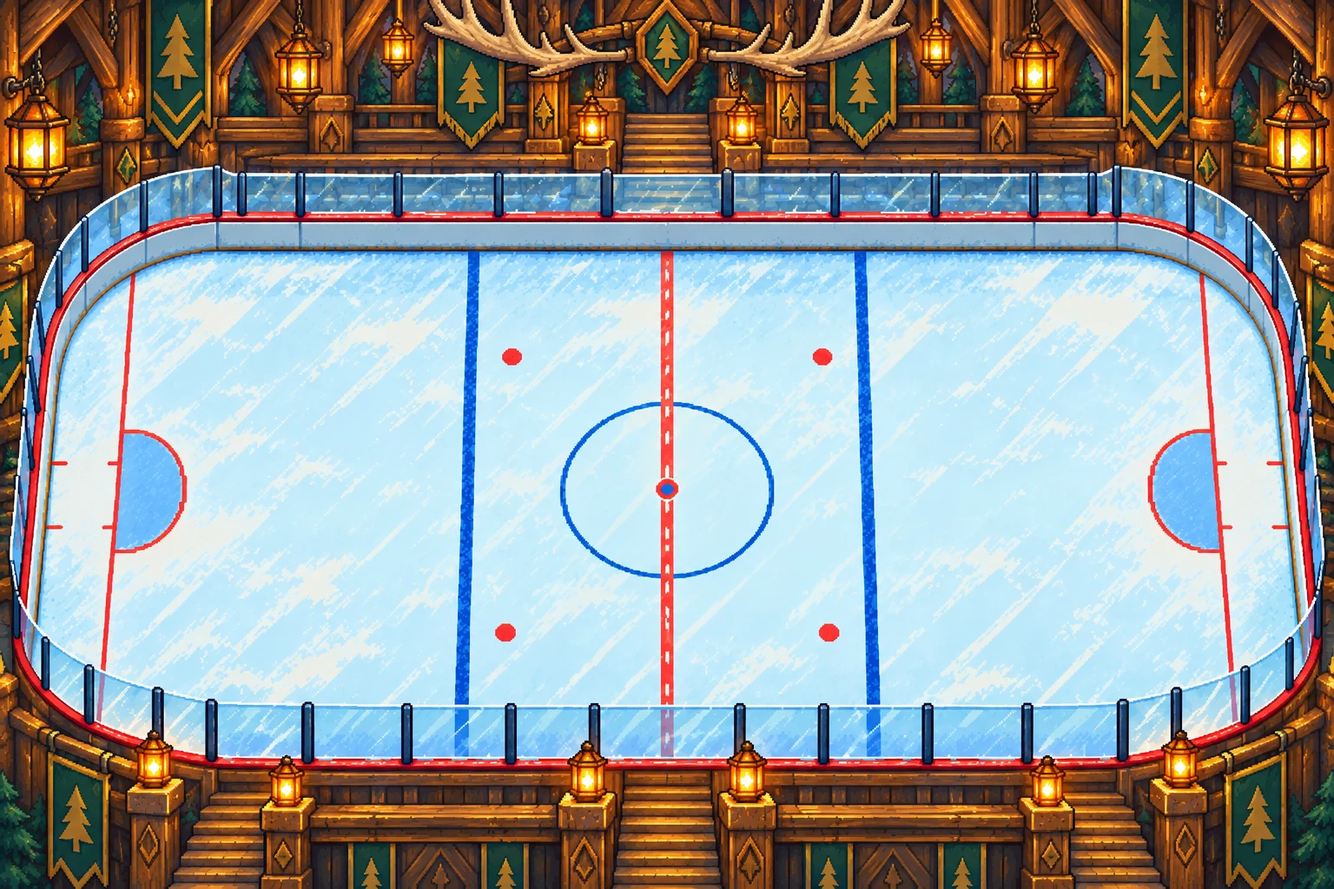
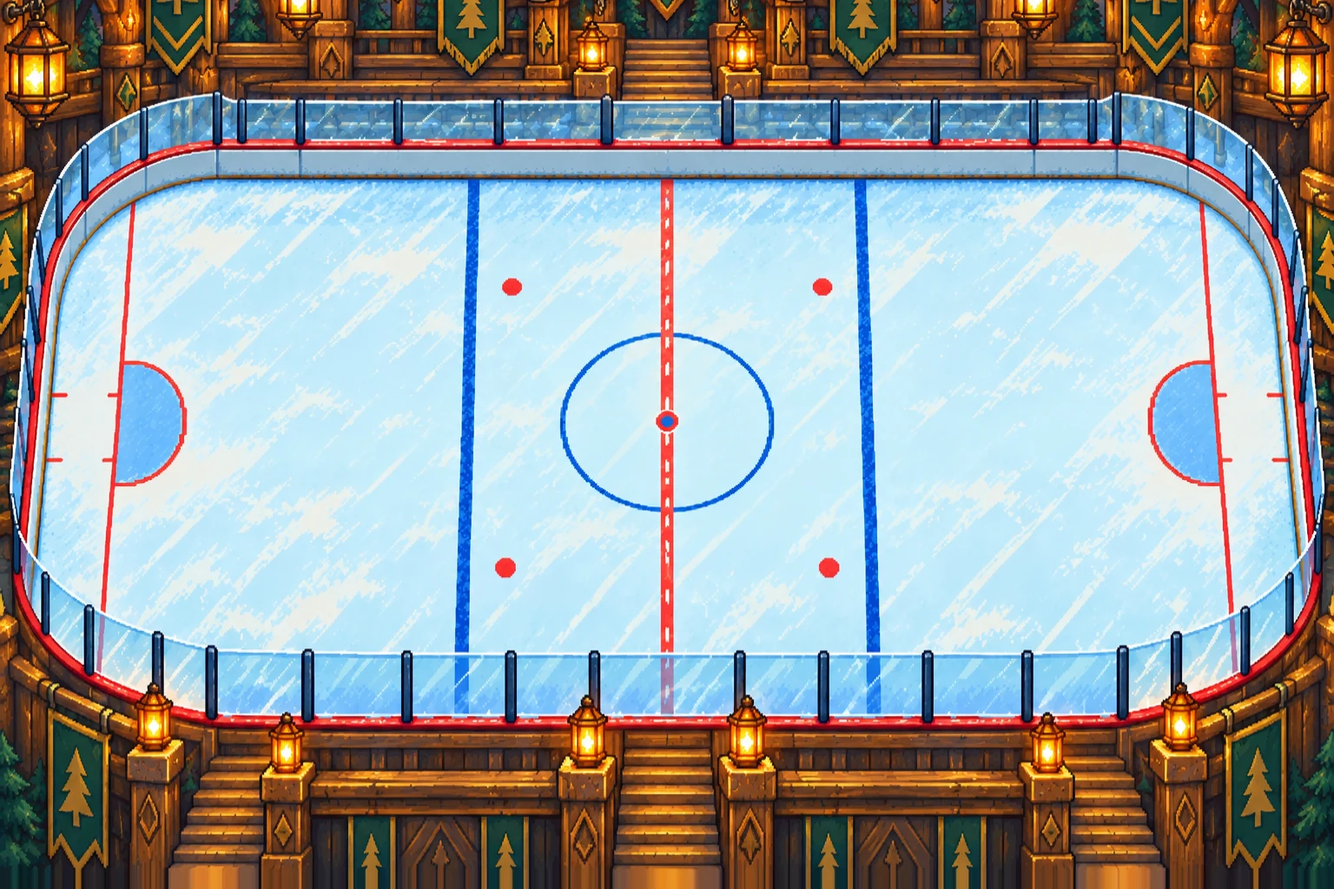
Rinks that match the boards, players from parts at full size, the AI and the Monolith
- The Longhouse and the Observatory: their backdrops were painted with the rink lower and
  shorter than the game's rink, so you could skate up into the glass and the nets sat off
  their creases. The build now finds each backdrop's rink (the kick plates and the faceoff
  dots) and stretches it onto the game's, to within half a pixel.
- Players made from parts are drawn with heads 35% bigger and bodies 5% sturdier, to sit
  with the cast's proportions; one in the locker-room crew now has a head.
- Monolith: the AI goes round a stone wall instead of skating into it (stuck 6 of 6 times
  before, round it 6 of 6 now), won't shoot into one, and a carrier raises it between
  themselves and the defender rather than across their own way.
- Puck protection: a stick reaching in on the forehand side gets the puck pulled across to
  the backhand, quicker and fuller with better hands, and a stick reaching round the
  carrier's body finds it harder (stick-check steals down about 9%).
- The AI knows the new buildings: it leans its attack toward the moonbeam and likes a shot
  from inside it, and dumps the puck into the corner without a loose plank.
- Coach tips for the mask picker, the club crests and the Observatory and Longhouse rules.
- Lighter frames: the vignette is a still layer over the canvas instead of a full-screen
  gradient every frame, and the screen is only cleared when the backdrop doesn't cover it.

diff --git a/src/ai.js b/src/ai.js
@@ -252,9 +252,34 @@ export class TeamAI {
     return { t: 2 + Math.hypot(c.x - s.x, c.y - s.y) / sp, x: c.x, y: c.y };
   }
 
+  // A Monolith wall standing across the straight line from (ax, ay) to (bx, by), with `rad`
+  // to spare on either side: the barrier, and which side of it the start is on (null if clear).
+  wallAcross(ax, ay, bx, by, rad) {
+    for (const w of this.m.barriers) {
+      if (!w.alive || w.breaking > 0) continue;
+      const ux = Math.cos(w.ang), uy = Math.sin(w.ang), R = w.thick / 2 + rad;
+      const da = (ax - w.x) * -uy + (ay - w.y) * ux, db = (bx - w.x) * -uy + (by - w.y) * ux; // across the wall
+      if (Math.sign(da) === Math.sign(db) && Math.abs(db) > R) continue; // both on one side, clear of its face
+      const t = da === db ? 0 : clamp(da / (da - db), 0, 1);
+      const along = (ax + (bx - ax) * t - w.x) * ux + (ay + (by - ay) * t - w.y) * uy;
+      if (Math.abs(along) < w.len / 2 + R) return { w, side: Math.sign(da) || 1, ux, uy, R };
+    }
+    return null;
+  }
+
   // ------------------------------------------------------------- actions
   seek(s, tx, ty, sprint, slowR = 60) {
-    const c = clampInside(tx, ty, 22);
+    let c = clampInside(tx, ty, 22);
+    // a stone wall in the way: round its nearer end rather than skating into it
+    const wall = this.wallAcross(s.x, s.y, c.x, c.y, s.r + 4);
+    if (wall) {
+      const { w, side, ux, uy, R } = wall, reach = w.len / 2 + R + 14;
+      const ends = [1, -1].map((e) => ({ x: w.x + ux * reach * e - uy * side * R * 0.6, y: w.y + uy * reach * e + ux * side * R * 0.6 }));
+      const cost = (q) => Math.hypot(q.x - s.x, q.y - s.y) + Math.hypot(c.x - q.x, c.y - q.y);
+      const best = cost(ends[0]) <= cost(ends[1]) ? ends[0] : ends[1];
+      c = clampInside(best.x, best.y, 22);
+      slowR = Math.min(slowR, 20); // (keep the speed up going round)
+    }
     let dx = c.x - s.x, dy = c.y - s.y;
     const d = Math.hypot(dx, dy);
     // separation from teammates
@@ -394,6 +419,7 @@ export class TeamAI {
         let score = (1 - dG / 430) * 1.2 + lane * 0.6 - angle * 0.35 + (Math.abs(g.y - aimY) > 25 ? 0.25 : 0);
         if (m.puck.power && m.puck.power !== 'lightning') score += 0.3;
         if (s.empowered > 0 || s.igniteT > 0) score += 0.3;
+        if (m.twists.beam && m.inBeam(s.x, s.y)) score += 0.12 + 0.18 * this.diff; // (the Observatory: shoot out of the moonlight)
         if (s.def.arch === 'sniper') score += 0.12; // a sniper lets it go sooner
         const thresh = lerp(0.55, 0.75, this.diff) - (near < 60 ? 0.25 : 0) - (this.gamePlan === 'rungun' ? 0.14 : this.gamePlan === 'trap' ? -0.05 : 0);
         if (score > thresh) {
@@ -443,7 +469,11 @@ export class TeamAI {
       }
       // a whirlwind to clear the way to the net
       if (s.def.ult.id === 'cyclone' && s.ult >= 100 && near < 90 && dx < 520 && m.rng() < 0.35) inp.ult = true;
-      if (s.def.ult.id === 'monolith' && s.ult >= 100 && near < 120 && m.rng() < 0.3) inp.ult = true;
+      // a wall between the carrier and the defender closing in (not across the carrier's own way)
+      if (s.def.ult.id === 'monolith' && s.ult >= 100 && nearOpp && near < 120 && m.rng() < 0.3) {
+        s.face = Math.atan2(nearOpp.y - s.y, nearOpp.x - s.x);
+        inp.ult = true;
+      }
       b.driveY = this.pickLane(s, nearOpp);
     }
     this.drive(s, near, nearOpp, b);
@@ -467,6 +497,7 @@ export class TeamAI {
 
   shotLane(s, aimY) {
     const m = this.m;
+    if (this.wallAcross(s.x, s.y, this.attX, aimY, 6)) return 0; // (a Monolith in the way stops the shot dead)
     let worst = 1;
     for (const o of m.opponents(s)) {
       const sd = segDist(o.x, o.y, s.x, s.y, this.attX, aimY);
@@ -483,6 +514,9 @@ export class TeamAI {
     if (nearOpp && Math.abs(nearOpp.y - s.y) < 90 && (nearOpp.x - s.x) * this.side > -20) {
       y = nearOpp.y > s.y ? nearOpp.y - 130 : nearOpp.y + 130;
     }
+    // the Observatory: lean the attack toward the moonbeam when it lies between us and the net
+    const B = this.m.twists.beam;
+    if (B) { const bdx = (this.attX - B.x) * this.side; if (bdx > 60 && bdx < 420 && dx > bdx) y = y * 0.6 + B.y * 0.4; }
     if (dx < 380) y = clamp(y, -110, 110);
     return clamp(y, RINK.minY + 70, RINK.maxY - 70);
   }

diff --git a/src/match.js b/src/match.js
@@ -298,7 +298,7 @@ export class Match {
     for (const s of this.skaters) s.update(dt);
     for (const g of this.goalies) g.update(dt);
     this.collideSkaters();
-    if (live) this.stickChecks(dt);
+    if (live) { this.protectPuck(dt); this.stickChecks(dt); }
     this.updatePuck(dt);
     this.updateTrails(dt);
     this.updateBarriers(dt);
@@ -394,6 +394,26 @@ export class Match {
     this.judgeHit(a, b, kb, hadPuck, puckDist);
   }
 
+  // Puck protection: a carrier with a stick reaching in on the forehand side pulls the puck
+  // across to the backhand, in close, with their body between it and the stick (quicker and
+  // fuller the better their hands). A stick on the backhand side finds it out on the forehand.
+  protectPuck(dt) {
+    const c = this.puck.owner;
+    if (!c || !c.isSkater) return;
+    let near = null, nd = 85;
+    for (const d of this.opponents(c)) {
+      if (d.stun > 0 || d.parked) continue;
+      const st = d.stickPoint(), dd = Math.hypot(st.x - c.x, st.y - c.y);
+      if (dd < nd) { nd = dd; near = d; }
+    }
+    let want = 0;
+    if (near) {
+      const side = c.hand === 'R' ? -1 : 1, lx = side * Math.sin(c.face), ly = -side * Math.cos(c.face); // the stick side
+      if ((near.x - c.x) * lx + (near.y - c.y) * ly > 0) want = clamp(0.45 + (c.stats.agi + c.stats.pas) * 0.03, 0, 1);
+    }
+    c.protect += (want - c.protect) * Math.min(1, dt * (6 + c.stats.agi * 0.6));
+  }
+
   // Defender's stick on the puck has a chance to poke it free.
   stickChecks(dt) {
     const p = this.puck;
@@ -403,7 +423,8 @@ export class Match {
       if (d.stun > 0 || d.parked) continue;
       const sp = d.stickPoint();
       if (Math.hypot(sp.x - p.x, sp.y - p.y) > 20) continue;
-      const rate = 0.6 * (1 + (d.stats.chk - c.stats.pas) * 0.06) // (0.8 when the puck sat in front of the body: out on the blade it's easier to reach) * this.ai[d.team].stealMul() * (d.def.arch === 'grinder' ? 1.08 : 1) * (d.hasPerk('Pickpocket') ? 1.1 : 1);
+      const shielded = (d.x - c.x) * (p.x - c.x) + (d.y - c.y) * (p.y - c.y) < 0; // reaching round the carrier's body
+      const rate = (shielded ? 0.35 : 0.6) * (1 + (d.stats.chk - c.stats.pas) * 0.06) // (0.8 when the puck sat in front of the body: out on the blade it's easier to reach) * this.ai[d.team].stealMul() * (d.def.arch === 'grinder' ? 1.08 : 1) * (d.hasPerk('Pickpocket') ? 1.1 : 1);
       if (this.rng() < rate * dt) {
         this.takePossession(d, 'steal');
         c.stun = 0.12;
@@ -435,6 +456,7 @@ export class Match {
     p.shot = null; p.pass = null;
     p.rolled.clear();
     if (s.isSkater) {
+      s.protect = 0;
       const cp = s.carryPoint();
       if (Math.hypot(cp.x - p.x, cp.y - p.y) > 60) { p.x = cp.x; p.y = cp.y; } // (close: it eases onto the blade, see updatePuck)
       // pass completed?
@@ -700,7 +722,12 @@ export class Match {
   dumpPuck(s) {
     const p = this.puck;
     if (p.owner !== s) return;
-    const sy = Math.sign(s.y) || (this.rng() < 0.5 ? -1 : 1);
+    let sy = Math.sign(s.y) || (this.rng() < 0.5 ? -1 : 1);
+    // the Longhouse: an AI dumps it into the corner without a loose plank on the way
+    if (!s.controlled && this.twists.planks.length) {
+      const loose = (y) => this.twists.planks.some((pl) => (pl.side === 'far' || pl.side === 'near') ? (pl.side === 'far') === (y < 0) && Math.max(pl.a0 * s.side, pl.a1 * s.side) > GOAL_X - 260 : pl.side === (s.side > 0 ? 'right' : 'left') && Math.sign((pl.a0 + pl.a1) / 2) === Math.sign(y));
+      if (loose(sy * 200) && !loose(-sy * 200)) sy = -sy;
+    }
     const tx = s.side * (GOAL_X + 60), ty = sy * 200 + this.rng.range(-30, 30);
     const d = norm(tx - p.x, ty - p.y);
     s.setState('pass', 0.2);

diff --git a/src/render.js b/src/render.js
@@ -7,7 +7,7 @@ import { POWER_INFO, COMBOS, TEAMS, ARENAS, PALETTES, GEAR_LOOK } from './data.j
 import { ELEMENT_COLORS } from './fx.js';
 import { NetRenderer, SpriteNets } from './net.js';
 import { t } from './i18n.js';
-import { headPlacement } from './modular.js';
+import { headPlacement, PARTS_SCALE } from './modular.js';
 import { handMirror } from './hands.js';
 import { Linesman } from './linesman.js';
 
@@ -104,9 +104,15 @@ export class Renderer {
     const { dpr } = this;
     const z = this.cam.zoom;
     const sh = fx.shakeOffset();
-    ctx.setTransform(1, 0, 0, 1, 0, 0);
-    ctx.fillStyle = '#0b1424';
-    ctx.fillRect(0, 0, this.c.width, this.c.height);
+    // clear only when the backdrop doesn't cover the screen (zoomed out, or shaken off an edge):
+    // a full-screen fill a frame that a phone's GPU can do without
+    const vx0 = this.cam.x - (this.w / 2 + sh.x) / z, vy0 = this.cam.y - (this.h / 2 + sh.y) / z;
+    const covered = vx0 >= 0 && vy0 >= 0 && vx0 + this.w / z <= BACKDROP.w && vy0 + this.h / z <= BACKDROP.h;
+    if (!covered) {
+      ctx.setTransform(1, 0, 0, 1, 0, 0);
+      ctx.fillStyle = '#0b1424';
+      ctx.fillRect(0, 0, this.c.width, this.c.height);
+    }
     ctx.setTransform(dpr * z, 0, 0, dpr * z, dpr * (this.w / 2 - this.cam.x * z + sh.x), dpr * (this.h / 2 - this.cam.y * z + sh.y));
     if (ui.awayTeamId && TEAMS[ui.awayTeamId]) Assets.prepareTeam(TEAMS[ui.awayTeamId]); // picks up pages loaded mid-match
     Assets.prepareTeam(PALETTES.homekit); // our recruits in home colours
@@ -1082,7 +1088,7 @@ export class Renderer {
     }
     const fr = this.skaterFrame(s, match);
     const p = at || toScreen(s.x, s.y);
-    const k = SKATER_SCALE * persp(s.y);
+    const k = SKATER_SCALE * persp(s.y) * (s.parts ? PARTS_SCALE.body : 1);
     let y = p.y, rot = 0;
     if (fr.pose === 'celebrate') y -= Math.abs(Math.sin(s.animT * 7 + s.slot)) * 12;
     if (fr.pose === 'check' && s.stun > 0) rot = Math.sin(s.animT * 30) * 0.12 + (fr.flip ? 0.25 : -0.25);
@@ -1127,7 +1133,7 @@ export class Renderer {
     const hp = M && f && headPlacement(M, s.parts, fr.id, f, x, y, k, fr.flip);
     if (!hp) return;
     const hf = Assets.frame(hp.head), c = hf && Assets.partsCanvas(hp.head, s.parts);
-    if (c) this.drawFrameCanvas(ctx, c, hf, hp.x, hp.y, k, hp.flip, hp.rot);
+    if (c) this.drawFrameCanvas(ctx, c, hf, hp.x, hp.y, k * PARTS_SCALE.head, hp.flip, hp.rot); // (bigger than drawn: see PARTS_SCALE)
     if (hp.front) Assets.draw(ctx, hp.front, x, y, k, { flip: fr.flip, pages });
   }
 
@@ -1783,16 +1789,10 @@ export class Renderer {
     ctx.fillStyle = '#fff2cb'; ctx.fillText(o.score, w - 14, h - bar / 2);
   }
 
+  // The darkened edges are a still overlay over the canvas (#vignette, in the page's CSS):
+  // drawn here they were another full-screen gradient fill every frame. Only the goal
+  // lamp's flicker is drawn.
   drawVignette(ctx, fx) {
-    if (!this.vig || this.vigW !== this.w || this.vigH !== this.h) {
-      this.vigW = this.w; this.vigH = this.h;
-      const g = ctx.createRadialGradient(this.w / 2, this.h / 2, Math.min(this.w, this.h) * 0.45, this.w / 2, this.h / 2, Math.max(this.w, this.h) * 0.75);
-      g.addColorStop(0, 'rgba(11,20,36,0)');
-      g.addColorStop(1, 'rgba(11,20,36,0.55)');
-      this.vig = g;
-    }
-    ctx.fillStyle = this.vig;
-    ctx.fillRect(0, 0, this.w, this.h);
     if (fx.flashes && fx.lamp > 0 && Math.sin(fx.lamp * 12) > 0) {
       ctx.fillStyle = hexA(fx.lampColor, 0.08);
       ctx.fillRect(0, 0, this.w, this.h);

diff --git a/src/lang/is.js b/src/lang/is.js
@@ -878,6 +878,8 @@ export const IS = {
   "Next shot flies faster and burns past the goalie.": "Næsta skot flýgur hraðar og brennur fram hjá markverðinum.",
   "Next shot freezes the first skater or goalie it hits.": "Næsta skot frystir fyrsta leikmann eða markvörð sem það hittir.",
   "Next Time": "Gengur betur næst",
+  "Next up, the Longhouse: some of its boards are loose. A puck off a loose plank goes anywhere, so don't rim it blind.": "Næst er það Longhouse: sumar fjalirnar í battanum eru lausar. Pökkur af lausri fjöl fer hvert sem er, svo ekki senda hann blint meðfram battanum.",
+  "Next up, the Observatory: a pool of moonlight sweeps the ice. Shoot from inside it and the goalie squints.": "Næst er það Observatory: tunglsljós sópast yfir svellið. Skjóttu innan úr því og markvörðurinn pírir augun.",
   "Next up: the {team} at {venue}! Get loud!": "Næst mætum við {team} og {venue} bíður! Látið í ykkur heyra!",
   "Next: {team}": "Næst: {team}",
   "Nice jersey, {name}. It'll look even better after we beat you.": "Flott treyja, {name}. Hún verður enn flottari eftir að við vinnum ykkur.",
@@ -1438,6 +1440,7 @@ export const IS = {
   "The round button pokes the puck off a close carrier. Saves charge Wall of Ice: fire it with the star.": "Hringlaga takkinn potar pökknum af sóknarmanni sem kemur nálægt. Varslur hlaða Ísvegginn: kveiktu á honum með stjörnunni.",
   "the runners-up": "liðið í öðru sæti",
   "The scout drops a thick folder on the table: everything on the {team}.": "Njósnarinn skellir þykkri möppu á borðið: allt um {team}.",
+  "The Snow Fox isn't the only crest: Team › Customise club has six more, all in your colours.": "Snærefurinn er ekki eina merkið: Lið › Sérsníða félag er með sex í viðbót, öll í þínum litum.",
   "The trophy chest": "Verðlaunakistan",
   "The twins are together: dress them both for Ragnarök.": "Tvíburarnir eru saman: settu þá báða í liðið fyrir Ragnarök.",
   "The twins' bond: from their first game together": "Tvíburatengslin: frá fyrsta leik saman",
@@ -1672,6 +1675,7 @@ export const IS = {
   "Your best Cone Weave and Breakaway runs are saved. Pick Ghost › Your best on the card and race yourself.": "Bestu sprettirnir þínir (Keilusvig, Sloppinn í gegn) eru vistaðir. Veldu Draugur › Besti tíminn þinn á spjaldinu og kepptu við eigið met.",
   "Your club": "Félagið þitt",
   "Your first trophy is in the chest. There are plenty more, and online leaderboards for the drills.": "Fyrsti verðlaunagripurinn er kominn í kistuna. Fleiri bíða þín, og á netinu eru stigatöflur fyrir æfingarnar.",
+  "Your goalie is made from parts, so the mask is yours to pick: Change style… on their card has twelve designs and any paint. Free, any time.": "Markvörðurinn þinn er settur saman úr hlutum, svo þú velur grímuna: Breyta stíl… á spjaldinu hans er með tólf hönnunum og hvaða lit sem er. Ókeypis, hvenær sem er.",
   "Your line against two chasers for 40 seconds. Each pass scores your current chain length (up to 5). A steal resets the chain.": "Liðið þitt gegn tveimur eltingarmönnum í 40 sekúndur. Hver sending gefur jafnmörg stig og keðjan er löng (mest 5). Ef þeir stela pökknum byrjar keðjan upp á nýtt.",
   "YOUR NET IS EMPTY": "ÞITT MARK ER AUTT",
   "Your save backs up automatically when you're in the locker room.": "Vistunin þín afritast sjálfkrafa þegar þú ert í búningsklefanum.",

diff --git a/src/assets.js b/src/assets.js
@@ -6,7 +6,7 @@
 // (Everything is prefetched into the browser cache, but only decoded when used.)
 
 import { TEAMS, PALETTES } from './data.js';
-import { recolorParts, recolorPaint, headPlacement } from './modular.js';
+import { recolorParts, recolorPaint, headPlacement, PARTS_SCALE } from './modular.js';
 
 const BASE = new URL('assets/', document.baseURI).href;
 const INLINE = typeof window !== 'undefined' && window.__INLINE; // single-file offline build
@@ -486,10 +486,11 @@ export const Assets = {
       return hp && hf ? { id: hp.head, f: hf, x: hp.x, y: hp.y } : null; // (at scale 1: source pixels)
     });
     let l = 0, r = 0, t = 0, b = 0; // extents around the pivot, in source pixels
+    const H = PARTS_SCALE.head; // (the head bigger than drawn, round its neck)
     fr.forEach(([, , , fw, fh, px, py, s], i) => {
       l = Math.max(l, px / s); r = Math.max(r, (fw - px) / s); t = Math.max(t, py / s); b = Math.max(b, (fh - py) / s);
       const h = heads[i];
-      if (h) { const [, , , hw, hh, hx, hy, hs] = h.f; l = Math.max(l, hx / hs - h.x); r = Math.max(r, h.x + (hw - hx) / hs); t = Math.max(t, hy / hs - h.y); }
+      if (h) { const [, , , hw, hh, hx, hy, hs] = h.f; l = Math.max(l, (hx / hs) * H - h.x); r = Math.max(r, h.x + ((hw - hx) / hs) * H); t = Math.max(t, (hy / hs) * H - h.y); }
     });
     const k = height / (t + b), w = Math.ceil((l + r) * k);
     const urls = fr.map(([pi, fx, fy, fw, fh, px, py, s], i) => {
@@ -501,7 +502,7 @@ export const Assets = {
       const h = heads[i], face = h && this.partsCanvas(h.id, look);
       if (face) {
         const [, , , hw, hh, hx, hy, hs] = h.f;
-        ctx.drawImage(face, (l + h.x - hx / hs) * k, (t + h.y - hy / hs) * k, (hw / hs) * k, (hh / hs) * k);
+        ctx.drawImage(face, (l + h.x - (hx / hs) * H) * k, (t + h.y - (hy / hs) * H) * k, (hw / hs) * H * k, (hh / hs) * H * k);
       }
       return c.toDataURL('image/png');
     });

diff --git a/src/guide.js b/src/guide.js
@@ -23,6 +23,10 @@ export const GUIDE = [
   { id: 'trades', when: (s, x) => x.tradeReady, target: '[data-tab="team"]', text: 'Got a signing or a rookie you don\'t need? Trade them for a rival\'s player: Trade, next to the price in Scouting.' },
   { id: 'gcamp', when: (s) => s.record.played >= 8 && s.coins >= 200, target: '[data-tab="team"]', text: 'Goalies go to camp too. Change style… on a goalie\'s card teaches them a new way to play the net, once a season.' },
   { id: 'expansion', when: (s, x) => x.expansion, target: '[data-tab="tournament"]', text: 'Two new clubs this season: the Owls wait for your mistakes, the Moose run you over. Seven rounds to the playoffs now.' },
+  { id: 'masks', when: (s, x) => x.maskPick, target: '[data-tab="team"]', text: 'Your goalie is made from parts, so the mask is yours to pick: Change style… on their card has twelve designs and any paint. Free, any time.' },
+  { id: 'crests', when: (s) => s.record.played >= 6 && !(s.club && s.club.crest && s.club.crest !== 'fox'), target: '[data-tab="team"]', text: 'The Snow Fox isn\'t the only crest: Team › Customise club has six more, all in your colours.' },
+  { id: 'moonbeams', when: (s, x) => x.nextRule === 'moonbeams', target: '[data-tab="tournament"]', text: 'Next up, the Observatory: a pool of moonlight sweeps the ice. Shoot from inside it and the goalie squints.' },
+  { id: 'planks', when: (s, x) => x.nextRule === 'loose_planks', target: '[data-tab="tournament"]', text: 'Next up, the Longhouse: some of its boards are loose. A puck off a loose plank goes anywhere, so don\'t rim it blind.' },
   { id: 'friends', when: (s, x) => x.online && s.record.played >= 4 && !((s.online && s.online.groups) || []).length, target: '[data-tab="training"]', text: 'Make a friends board under the cup in Training and share its code: the same boards with just your friends, every week.' },
 ];
 

diff --git a/src/ui.js b/src/ui.js
@@ -486,6 +486,8 @@ export class UI {
       goalieTalk: Object.keys(GOALIE_RECRUITS).some((k) => goalieStatus(s, k) === 'open'),
       tradeReady: tradeable(s).length > 0 && Object.keys(RECRUITS).some((k) => recruitStatus(s, k) === 'open'),
       expansion: !!(s.league && s.league.teams && s.league.teams.some((id) => TEAMS[id] && TEAMS[id].expansion)),
+      maskPick: goalieIds(s).some((id) => canPickMask(s, id)),
+      nextRule: (() => { const f = this.app.fixture && this.app.fixture(), ar = f && f.stage && (f.stage.arena || (TEAMS[f.opponent] && TEAMS[f.opponent].arena)); return ar && ARENAS[ar] ? ARENAS[ar].twist : null; })(),
       newCombo: lineupIds(s).some((a, i, l) => l.some((b, j) => j > i && !CAST_PAIRS.includes(pairKey(member(a).def.elem, member(b).def.elem)) && COMBOS[pairKey(member(a).def.elem, member(b).def.elem)])),
     });
     this.roomFit?.disconnect();
@@ -534,7 +536,8 @@ export class UI {
         const set = Assets.atlas.skaters[m.sprite || m.def.sprite];
         // a legend stands in their own art before their skating sets are in (Batch AI part 1)
         const own = m.legend && Assets.atlas.legends && Assets.atlas.legends[m.legend.art] && Assets.atlas.legends[m.legend.art].idle;
-        src = own ? Assets.icon(own, 160, 'homekit') : set && Assets.icon(set.home.south.frames.idle, 160, m.look || CLUB_PAGES());
+        const mo = !own && m.parts && set && Assets.partsMoment([set.home.south.frames.idle], m.parts, 160, 'homekit'); // (from parts: the body with their head)
+        src = own ? Assets.icon(own, 160, 'homekit') : mo ? mo.urls[0] : set && Assets.icon(set.home.south.frames.idle, 160, m.look || CLUB_PAGES());
         if (!src) src = Assets.icon(Assets.atlas.skaters[m.def.sprite].home.south.frames.idle, 160, CLUB_PAGES());
       }
       const name = id === 'goalie' ? keeper.name : member(id).name;

diff --git a/src/entities.js b/src/entities.js
@@ -182,6 +182,7 @@ export class Skater {
     this.stride = 0;
     this.animT = 0;
     this.stridePhase = 0; this.danglePhase = (slot || 0) * 0.37 + team * 0.5; this.lean = 0; this.faceWas = 0; // (see update)
+    this.protect = 0; // 0..1: the puck pulled in to the backhand, away from a stick reaching in (see Match.protectPuck)
     this.controlled = false;
     this.celebrate = 0;
     this.flash = 0;
@@ -442,8 +443,11 @@ export class Skater {
     const b = this.bladeReach();
     if (this.ultWindup > 0 || (this.charging && this.chargeT > 0.08)) return this.bladeAt(b.fwd * 0.8, b.lat + 8);
     const fast = Math.min(1, this.speed / 260), ph = (this.danglePhase ?? this.animT * 2.4) * Math.PI * 2;
-    const lat = b.lat + Math.sin(ph) * (6 - fast * 3.5);
-    const fwd = b.fwd + fast * 4 + Math.cos(ph * 2) * (2 - fast);
+    let lat = b.lat + Math.sin(ph) * (6 - fast * 3.5);
+    let fwd = b.fwd + fast * 4 + Math.cos(ph * 2) * (2 - fast);
+    // protecting it: pulled across to the backhand, in close to the skates
+    const k = this.protect || 0;
+    if (k > 0) { lat += (-4 - lat) * k; fwd += (b.fwd * 0.55 - fwd) * k; }
     return this.bladeAt(fwd, lat);
   }
 

diff --git a/src/replay.js b/src/replay.js
@@ -1,7 +1,7 @@
 // Instant replay: records the last few seconds of a match and plays a goal back in
 // slow motion by writing recorded positions into the live entities.
 
-const SK = ['x', 'y', 'vx', 'vy', 'face', 'state', 'stateT', 'animT', 'charging', 'chargeT', 'ultWindup', 'dashT', 'stun', 'celebrate', 'flash', 'slowT', 'slowMul', 'bedrockT', 'boostT', 'trailT', 'empowered', 'igniteT', 'fadeT', 'gustT', 'controlled', 'stopping', 'gliding', 'stridePhase', 'danglePhase', 'lean'];
+const SK = ['x', 'y', 'vx', 'vy', 'face', 'state', 'stateT', 'animT', 'charging', 'chargeT', 'ultWindup', 'dashT', 'stun', 'celebrate', 'flash', 'slowT', 'slowMul', 'bedrockT', 'boostT', 'trailT', 'empowered', 'igniteT', 'fadeT', 'gustT', 'controlled', 'stopping', 'gliding', 'stridePhase', 'danglePhase', 'lean', 'protect'];
 const GK = ['x', 'y', 'vx', 'vy', 'state', 'stateT', 'prevState', 'saveHigh', 'saveUp', 'diveDir', 'shuffle', 'slowT', 'flash', 'holdT', 'stopPose', 'disabled', 'leaving', 'leaveX', 'leaveY'];
 const LERP = new Set(['x', 'y', 'face']);
 const SECONDS = 4.2;

diff --git a/src/modular.js b/src/modular.js
@@ -53,6 +53,9 @@ export const bodySprite = (look) => (look && MODULAR.bodies.includes(look.body) 
 // Goalies from parts (Batch AT): a body drawn without the mask, and painted masks that sit on
 // it. A goalie's look is { mask: 'flame', paint: '#e7bf52' }; the paint goes where the mask's
 // paint layer is red. Set from the atlas at start; empty without the art.
+// Players from parts are drawn a little sturdier and with bigger heads than their art, to
+// sit with the cast's chibi proportions (their heads were drawn about 35% smaller).
+export const PARTS_SCALE = { head: 1.35, body: 1.05 };
 export const GOALIE_PARTS = { masks: [], builds: ['std'] };
 export const PAINTS = ['#e7bf52', '#c9d6e3', '#7fd16b', '#ff6f7d', '#9b8cff', '#71dce8', '#f2a93b', '#e8eef5', '#2a2f3d'];
 export function useGoalieParts(atlas) {

diff --git a/src/styles.css b/src/styles.css
@@ -30,6 +30,8 @@ img { image-rendering: auto; max-width: 100%; }
 
 #app { position: fixed; inset: 0; overflow: hidden; background: var(--ink); }
 #game { position: absolute; inset: 0; width: 100%; height: 100%; display: block; }
+/* the darkened edges over the rink: a still layer rather than a gradient the canvas fills every frame */
+#vignette { position: absolute; inset: 0; pointer-events: none; background: radial-gradient(circle at 50% 50%, rgba(11, 20, 36, 0) 45vmin, rgba(11, 20, 36, 0.55) 75vmax); }
 
 /* ---------- shared panel + button look ---------- */
 .panel {

diff --git a/index.html b/index.html
@@ -19,6 +19,7 @@
 <body>
 <div id="app">
   <canvas id="game" aria-label="Hockey rink" data-i18n-aria="Hockey rink"></canvas>
+  <div id="vignette" aria-hidden="true"></div>
   <div id="hud" hidden></div>
   <div id="touch" hidden>
     <div class="stick-zone"></div>
